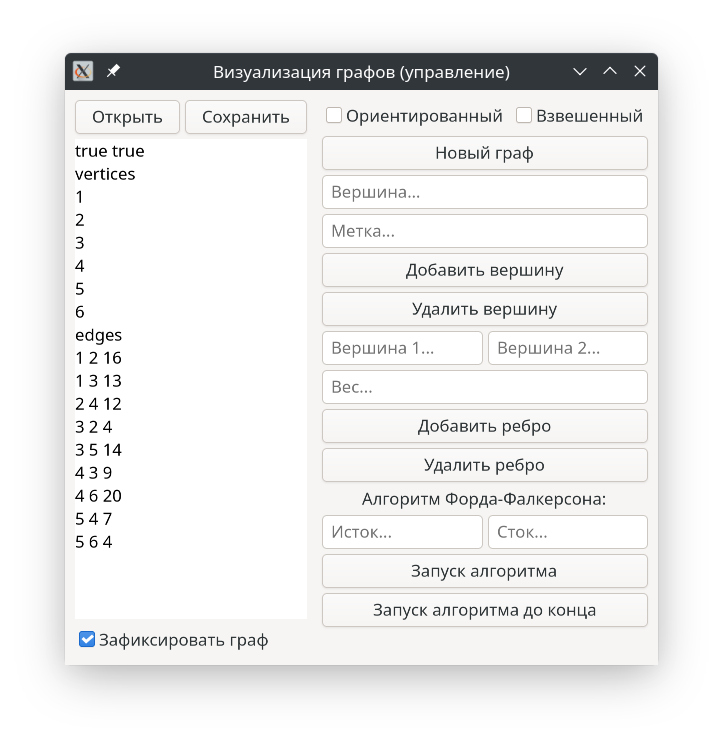
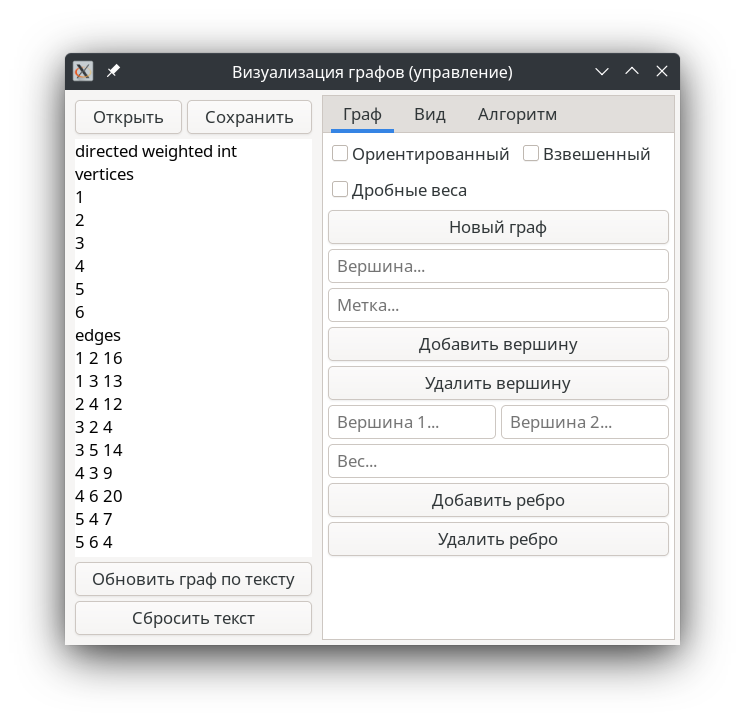
Update readme and screenshots

Changed region(s): [[0.0609, 0.0609, 0.9433, 0.9446]]

diff --git a/README.md b/README.md
@@ -1,5 +1,5 @@
 ## Описание
-Приложение состоит из двух окон: для управления графом и отображения графа. В первом окне, в левой части, расположены кнопки для загрузки и сохранения графа в файл, а также отображения графа в текстовом виде; снизу расположен флажок "Зафиксировать граф", позволяющий прекратить обновления изображения графа, чтобы иметь возможность вручную расположить вершины. В правой части окна находятся флажки для ориентированности и взвешенности нового графа, и кнопка для его создания; также есть поля и кнопки для добавления и удаления вершин и рёбер. В конце расположен интерфейс для алгоритма Форда-Фалкерсона, позволяющий пошагово находить и показывать максимальный поток в графе с помощью поиска дополняющих путей. В окне отображения графа показывается сам граф так, чтобы полностью поместиться в окно. Если не включено фиксирование графа, то граф ведёт себя как система из частиц: вершины отталкиваются друг от друга, рёбра притягивают соединённые вершины. Это позволяет во многих случаях наглядно отобразить граф.
+Приложение состоит из двух окон: для управления графом и для отображения графа. В первом окне, в левой части, расположены кнопки для загрузки и сохранения графа в файл, а также поле для редактирования графа в текстовом виде. Под ним расположены кнопки для обновления графа по заданному тексту и по сбросу текстового представления графа. В правой части окна находятся три вкладки: "Граф", "Вид", "Алгоритм". На первой расположены флажки для ориентированности, взвешенности и типа весов нового графа, и кнопка для его создания; также есть поля и кнопки для добавления и удаления вершин и рёбер. На вкладке "Вид" можно изменять параметры алгоритма визуализации графа, с помощью флажка "Отрисовывать детали и текст" можно переключиться на упрощённый вид отрисовки, а с помощью флажка "Зафиксировать изображение" можно прекратить обновления графа, чтобы иметь возможность вручную расположить вершины. Кнопка "Сбросить изображение" переустанавливает случайные координаты для всех вершин и сбрасывает масштаб изображения. На последней вкладке расположен интерфейс для алгоритма Форда-Фалкерсона, позволяющий пошагово находить и показывать максимальный поток в графе с помощью поиска дополняющих путей. В окне отображения граф изначально показывается так, чтобы полностью поместиться в окно. Если не включено фиксирование изображения, то граф ведёт себя как система из частиц: вершины отталкиваются друг от друга, рёбра притягивают соединённые вершины. Это позволяет во многих случаях наглядно отобразить граф. Также с помощью мыши можно перетаскивать вершины, изменять масштаб (колесом мыши), передвигать изображение (перетаскиванием свободной области).
 
 ## Скриншоты
 Окно управления графом:
@@ -11,5 +11,8 @@
 Работа алгоритма Форда-Фалкерсона:
 ![](doc/screenshot_3.png)
 
-Отображение большого графа:
+Отображение среднего графа:
 ![](doc/screenshot_4.png)
+
+Отображение большого графа:
+![](doc/screenshot_5.png)
